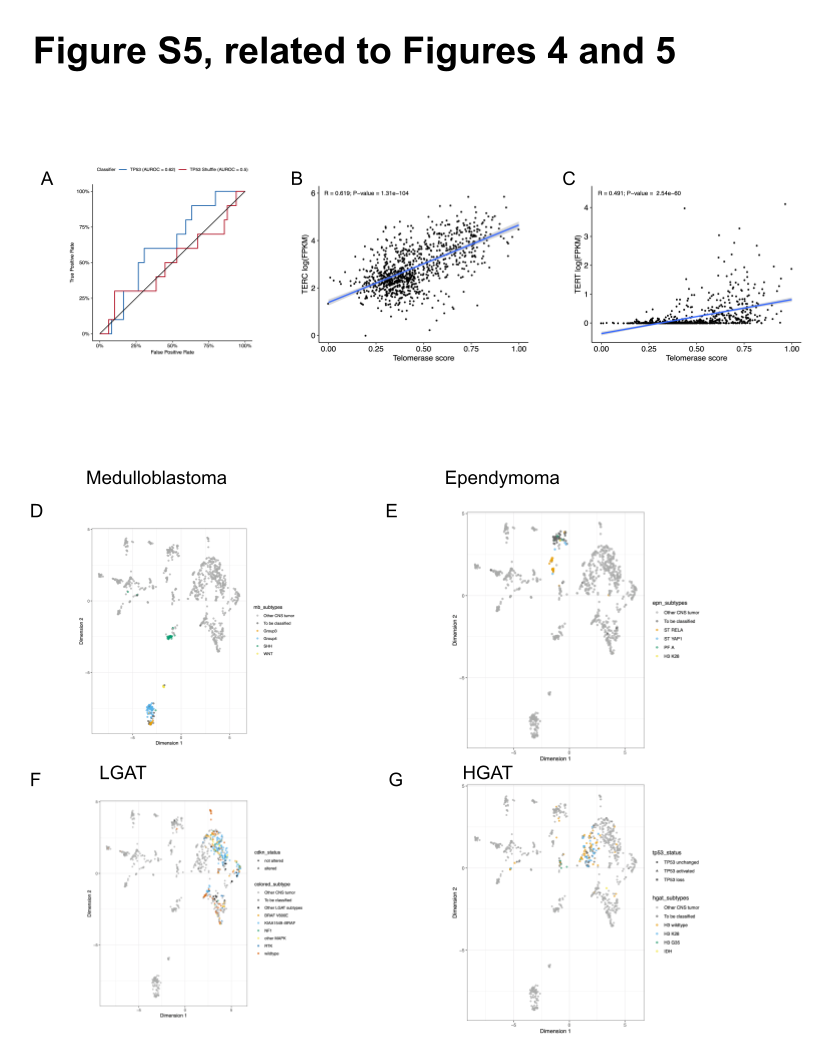
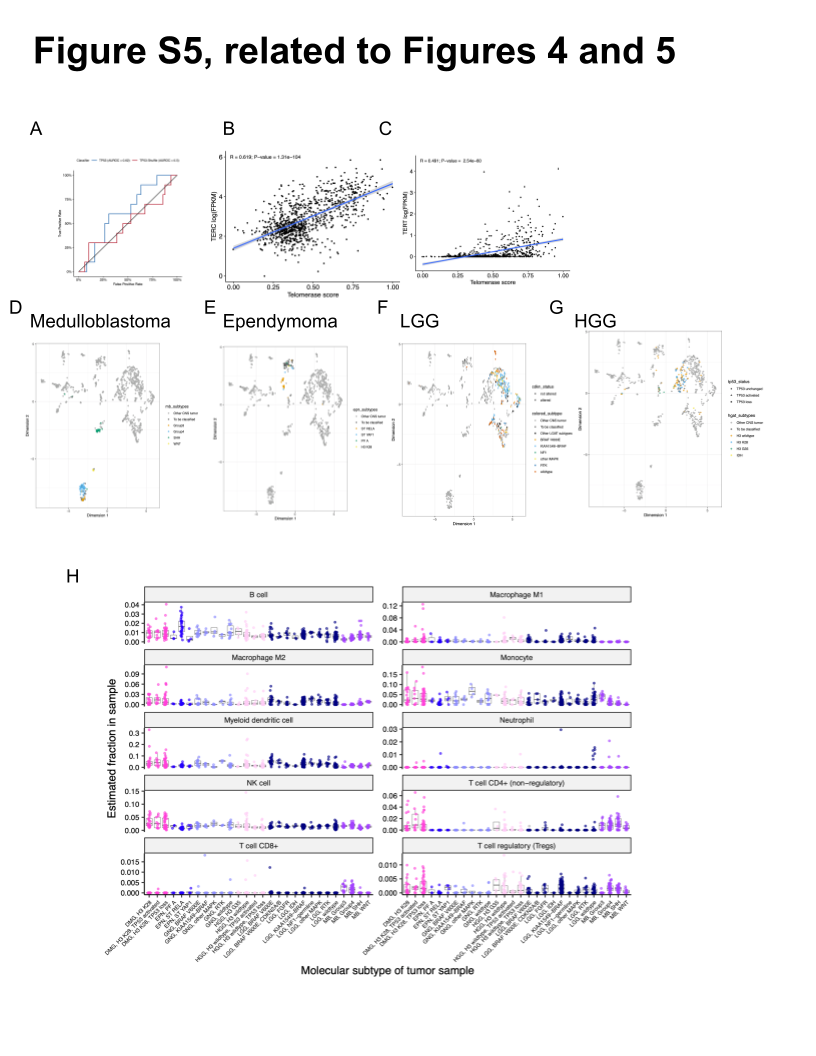
update figures 5 and S5

diff --git a/content/03.results.md b/content/03.results.md
@@ -222,9 +222,8 @@ Indeed, we detected significant (Bonferroni p < 0.05) upregulation of _MYC_ and 
 In contrast, low-grade astrocytic tumors show significant downregulation (Bonferroni p < 0.05) of these pathways.
 Schwannomas and neurofibromas (tumors of cranial and paraspinal nerves) which have a documented inflammatory immune microenvironment of T and B lymphocytes, as well as tumor-associated macrophages (TAMs) driven by upregulation of cytokines such as IFN$\gamma$, IL-1, and IL-6, and TNF$\alpha$ [@doi:10.1093/noajnl/vdaa023].
 This was recapitulated in both our GSVA (**Figure {@fig:Fig5}B**) and immune deconvolution (**Figure {@fig:Fig5}C**) analyses.
+Complete GSVA results can be found within the `gene-set-enrichment-analysis` in the [OpenPBTA analysis repository](https://github.com/AlexsLemonade/OpenPBTA-analysis/tree/master/analyses/gene-set-enrichment-analysis).
 
 Finally, we characterized the immune cell landscape across OpenPBTA tumors by running QuanTIseq on RNA-Seq data (**Figure {@fig:Fig5}C** and **Figure S5, panel H**).
 
-
-
-![**Figure 5.** A, First two dimensions from UMAP of sample transcriptome data. Points are colored by `broad_histology` of the samples they represent. B, Heatmap of GSVA scores for Hallmark gene sets with significant differences, with samples ordered by `broad_histology`. C, QuanTIseq estimates of immune cell proportions shown by tumor molecular subtype.](images/main/Figure5.png){#fig:Fig5}
+![**Figure 5.** A, First two dimensions from UMAP of sample transcriptome data. Points are colored by `broad_histology` of the samples they represent. B, Heatmap of GSVA scores for Hallmark gene sets with significant differences, with samples ordered by `broad_histology`. C, Box plots of QuanTIseq estimates of immune cell proportions in histologies with N > 15.](images/main/Figure5.png){#fig:Fig5}

diff --git a/content/07.supplemental.md b/content/07.supplemental.md
@@ -29,7 +29,9 @@ Box and whisker plots of number of CNV breaks (C) or SV breaks (D) by number of 
 
 **Figure S5. Related to Figure 4**.
 (A) Receiver Operating Characteristic for _TP53_ classifier run on FPKM of poly-A RNA-Seq samples. 
-Correlation plots for telomerase scores (EXTEND) with RNA expression of _TERT_ (B) and _TERC_ (C).First two dimensions from UMAP of sample transcriptome data with points colored by `molecular_subtype` for medulloblastoma (D), ependymoma (E), low-grade glioma (F), and high-grade diffuse astrocytic tumors (G). 
+Correlation plots for telomerase scores (EXTEND) with RNA expression of _TERT_ (B) and _TERC_ (C).
+First two dimensions from UMAP of sample transcriptome data with points colored by `molecular_subtype` for medulloblastoma (D), ependymoma (E), low-grade glioma (F), and high-grade diffuse astrocytic tumors (G).
+(H) Box plots of QuanTIseq estimates of immune cell proportions for molecular subtypes (N >= 3) within DMG, EPN, GNG, HGG, LGG, and MB.
 
 **Table S1. Related to Figure 1.** 
 Table of specimens and associated metadata, clinical data, and histological data utilized in the OpenPBTA project.
